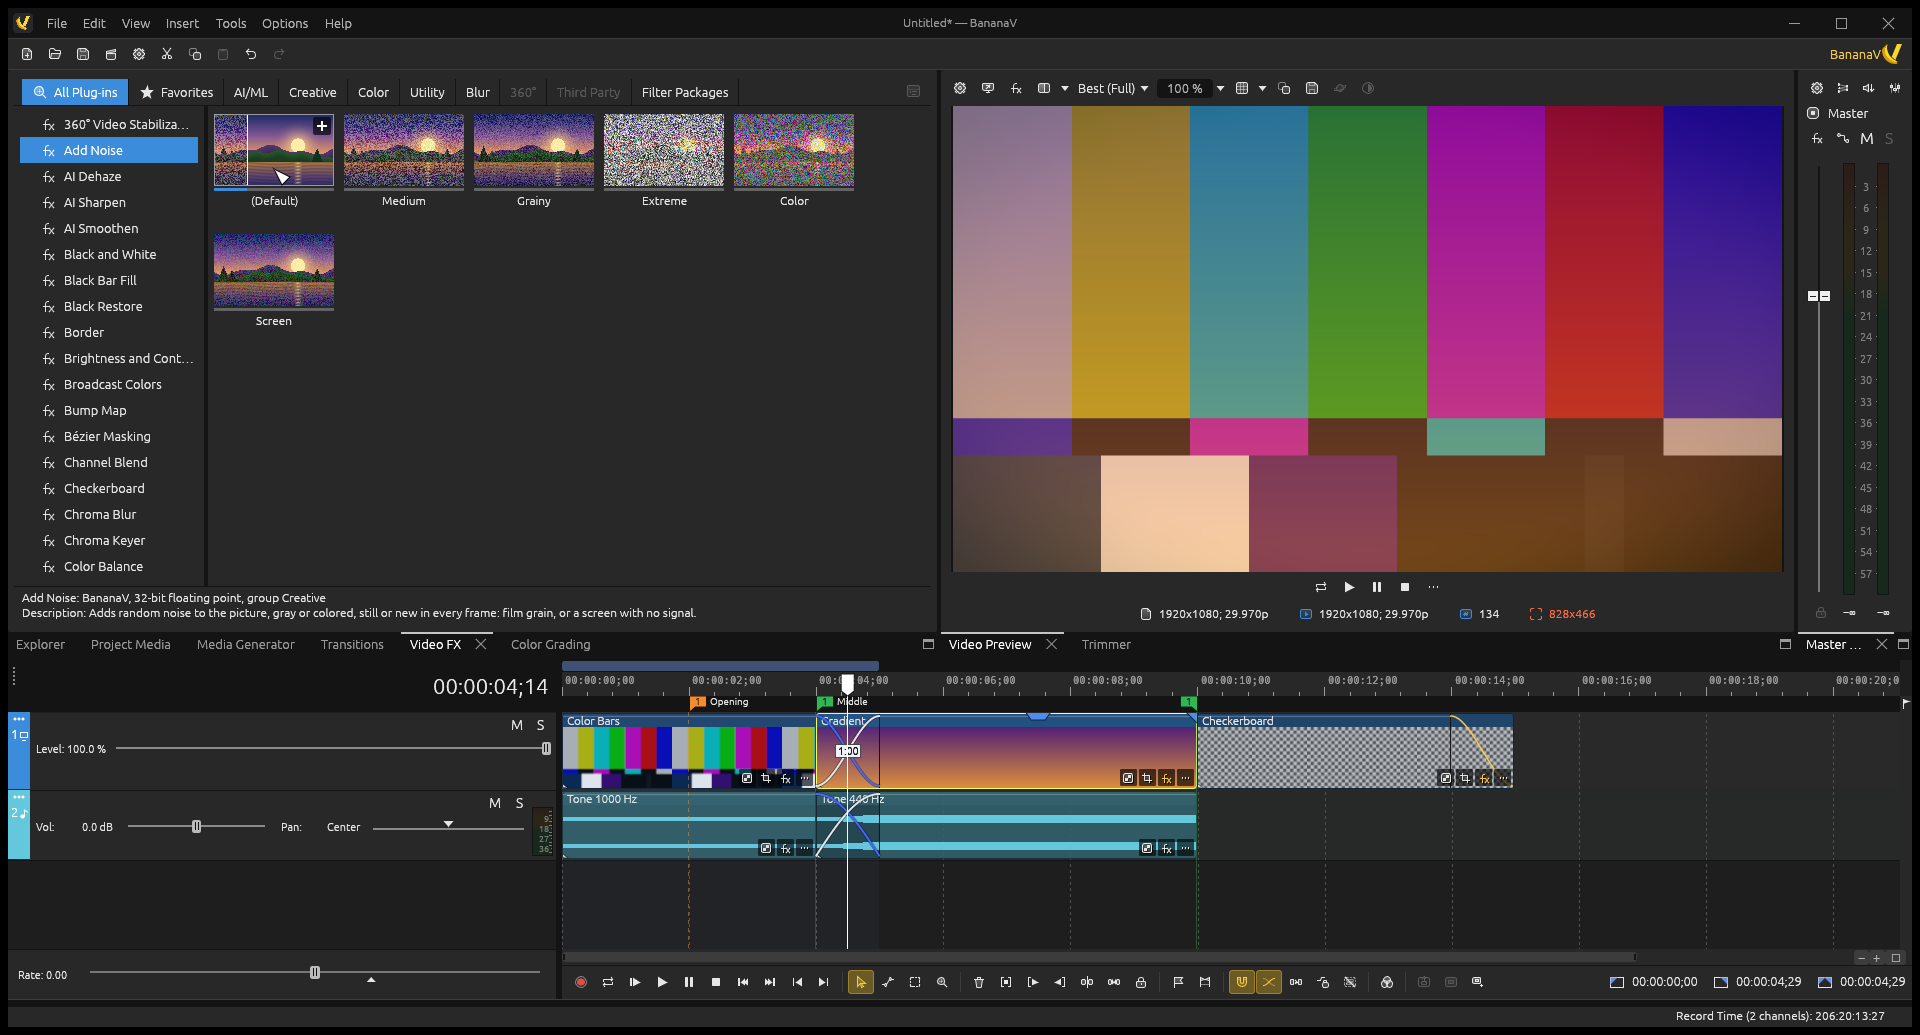
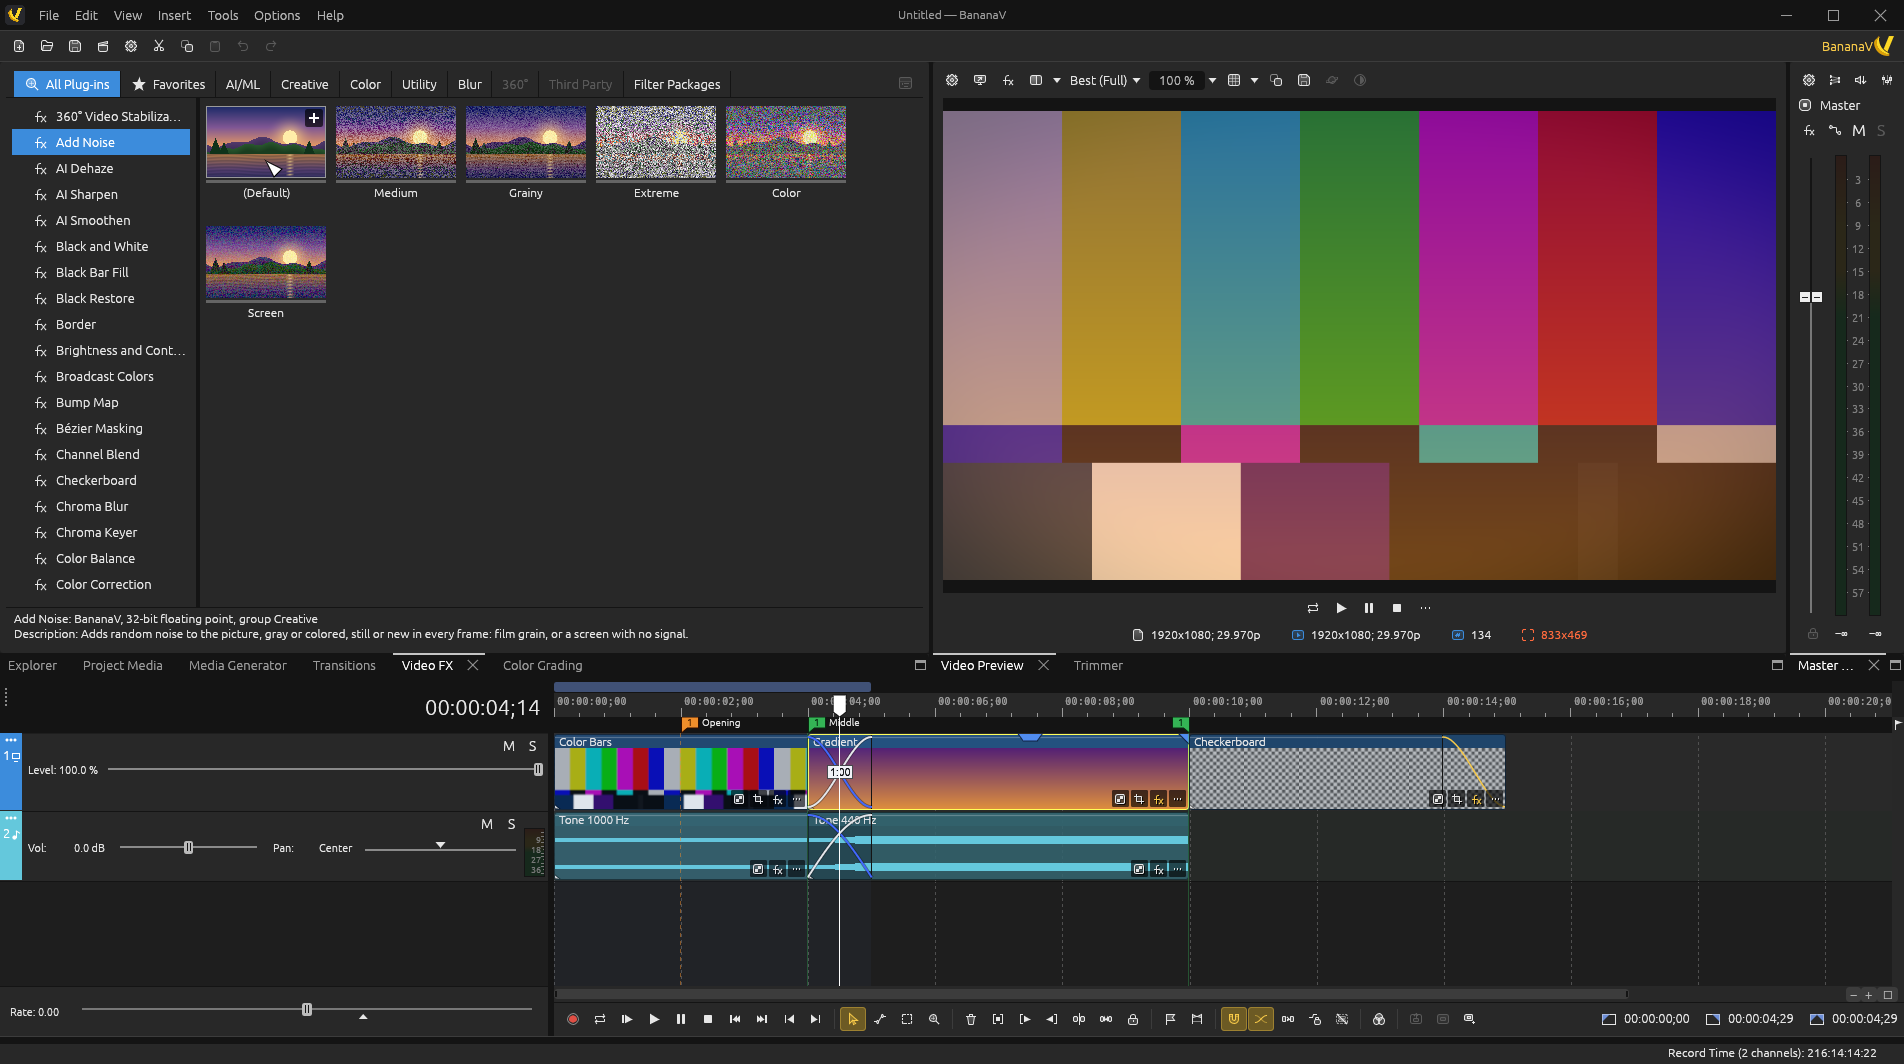
Website: fresh, well-framed screenshots of the whole window

diff --git a/site/index.html b/site/index.html
@@ -94,7 +94,7 @@
         <p class="hero-meta">Windows &amp; Linux · x64 &amp; ARM64 · GPL v3 · No account, no watermark, no subscription</p>
       </div>
       <figure class="showcase">
-        <img src="assets/img/screen-main.png" alt="BananaV's main window: the effects chooser with Add Noise's presets, the Video Preview, the Master Bus and the timeline" width="1920" height="1035">
+        <img src="assets/img/screen-main.png" alt="BananaV's main window: the effects chooser with Add Noise's presets, the Video Preview, the Master Bus and the timeline" width="1904" height="1064">
       </figure>
     </section>
 
@@ -216,31 +216,26 @@
           <button type="button" role="tab" id="tab-generators" aria-controls="shot-generators" aria-selected="false" tabindex="-1">Generators</button>
           <button type="button" role="tab" id="tab-color" aria-controls="shot-color" aria-selected="false" tabindex="-1">Color</button>
           <button type="button" role="tab" id="tab-audio" aria-controls="shot-audio" aria-selected="false" tabindex="-1">Audio</button>
-          <button type="button" role="tab" id="tab-timeline" aria-controls="shot-timeline" aria-selected="false" tabindex="-1">Timeline</button>
         </div>
         <figure class="tour-shot" role="tabpanel" id="shot-effects" aria-labelledby="tab-effects">
-          <img src="assets/img/screen-effects.png" alt="The Video FX chooser with Add Noise's presets beside the Video Preview" width="1904" height="556">
-          <figcaption>Pick an effect and see its presets come alive under the pointer, then drag it onto the timeline.</figcaption>
+          <img src="assets/img/screen-effects.png" alt="An event's effects window with Vignette and Swirl, the swirl's center as a handle on the Video Preview" width="1904" height="1064">
+          <figcaption>Chain effects on any event, track or the output, and drag their handles right on the preview.</figcaption>
         </figure>
         <figure class="tour-shot" role="tabpanel" id="shot-transitions" aria-labelledby="tab-transitions" hidden>
-          <img src="assets/img/screen-transitions.png" alt="The Transitions chooser with GL Transition's presets beside the Video Preview" width="1904" height="556" loading="lazy">
+          <img src="assets/img/screen-transitions.png" alt="The Transitions chooser with GL Transition's presets beside the Video Preview" width="1904" height="1064" loading="lazy">
           <figcaption>Wipes, 3D moves, page peels and the GL Transitions collection, or write your own transition in GLSL.</figcaption>
         </figure>
         <figure class="tour-shot" role="tabpanel" id="shot-generators" aria-labelledby="tab-generators" hidden>
-          <img src="assets/img/screen-generators.png" alt="The Media Generator chooser with Noise Texture's presets beside the Video Preview" width="1904" height="556" loading="lazy">
+          <img src="assets/img/screen-generators.png" alt="The Media Generator chooser with Noise Texture's presets beside the Video Preview" width="1904" height="1064" loading="lazy">
           <figcaption>Titles, credit rolls, test patterns and textures made right on the timeline.</figcaption>
         </figure>
         <figure class="tour-shot" role="tabpanel" id="shot-color" aria-labelledby="tab-color" hidden>
-          <img src="assets/img/screen-color.png" alt="The Color Grading panel with its color wheels and curves, beside the Video Scopes" width="1600" height="471" loading="lazy">
+          <img src="assets/img/screen-color.png" alt="The Color Grading panel with its color wheels under the timeline and the Video Preview, beside the Video Scopes" width="1904" height="1064" loading="lazy">
           <figcaption>Lift, gamma, gain and offset wheels, curves, HSL and LUTs, with the scopes beside your picture.</figcaption>
         </figure>
         <figure class="tour-shot" role="tabpanel" id="shot-audio" aria-labelledby="tab-audio" hidden>
-          <img src="assets/img/screen-mixer.png" alt="The Mixing Console with a strip for each track and bus" width="1600" height="662" loading="lazy">
-          <figcaption>A strip for every track, bus and effects chain, with sends, meters, inserts and automation.</figcaption>
-        </figure>
-        <figure class="tour-shot" role="tabpanel" id="shot-timeline" aria-labelledby="tab-timeline" hidden>
-          <img src="assets/img/screen-timeline.png" alt="The timeline with audio bus tracks and their volume and pan envelopes" width="1600" height="404" loading="lazy">
-          <figcaption>Bus tracks, effect envelopes and keyframes live right where you edit.</figcaption>
+          <img src="assets/img/screen-mixer.png" alt="The Mixing Console with a strip for each track and bus, and the busses' automation envelopes on the timeline" width="1904" height="1064" loading="lazy">
+          <figcaption>A strip for every track, bus and effects chain, and automation envelopes right on the timeline.</figcaption>
         </figure>
       </div>
     </section>

diff --git a/site/assets/i18n.js b/site/assets/i18n.js
@@ -5,6 +5,11 @@
 window.BANANAV_I18N = {
   "pt-BR": {
     // The redesign: what's new, the numbers, the tour, support.
+    "An event's effects window with Vignette and Swirl, the swirl's center as a handle on the Video Preview": "A janela de efeitos de um evento com Vinheta e Redemoinho, o centro do redemoinho como alça na pré-visualização",
+    "Chain effects on any event, track or the output, and drag their handles right on the preview.": "Encadeie efeitos em qualquer evento, trilha ou na saída, e arraste as alças direto na pré-visualização.",
+    "The Color Grading panel with its color wheels under the timeline and the Video Preview, beside the Video Scopes": "O painel de Matização de cores com as rodas de cor, embaixo da timeline e da pré-visualização, ao lado dos scopes de vídeo",
+    "The Mixing Console with a strip for each track and bus, and the busses' automation envelopes on the timeline": "O console de mixagem com um canal para cada trilha e barramento, e os envelopes de automação dos barramentos na timeline",
+    "A strip for every track, bus and effects chain, and automation envelopes right on the timeline.": "Um canal para cada trilha, barramento e cadeia de efeitos, e envelopes de automação direto na timeline.",
     "Tour": "Tour",
     "New": "Novo",
     "Ultra Alpha 2 is out, and the source code is public": "A Ultra Alpha 2 saiu, e o código-fonte agora é público",

diff --git a/crates/ui-egui/tests/telas_site.rs b/crates/ui-egui/tests/telas_site.rs
@@ -1,0 +1,106 @@
+//! Off-screen captures of the whole main window for the website, all at
+//! 1920 × 1080 and all of the demo project (nothing of the computer's own
+//! files shows: the Explorer stays behind other windows). Run with:
+//! `cargo test -p bv-ui-egui --test telas_site -- --ignored --nocapture`
+//! The images go to `target/telas/site_*.png`; `site/assets/img/screen-*.png`
+//! are made from them.
+
+use std::path::PathBuf;
+use std::time::Duration;
+
+use bv_ui_egui::{BananaApp, Language, apply_theme, egui, set_language};
+use egui_kittest::Harness;
+use egui_kittest::kittest::Queryable;
+
+fn settle(h: &mut Harness<'_, BananaApp>) {
+    // The preview, thumbnails and waveforms arrive from other threads.
+    for _ in 0..40 {
+        h.step();
+        std::thread::sleep(Duration::from_millis(50));
+    }
+}
+
+fn snap(h: &mut Harness<'_, BananaApp>, name: &str) {
+    settle(h);
+    let dir = PathBuf::from(env!("CARGO_MANIFEST_DIR")).join("../../target/telas");
+    std::fs::create_dir_all(&dir).expect("output folder");
+    let img = h.render().expect("render");
+    img.save(dir.join(format!("site_{name}.png")))
+        .expect("save");
+}
+
+/// The demo project in English, the welcome screen closed, never the
+/// user's filter packages.
+fn demo() -> BananaApp {
+    let mut app = BananaApp::new(egui::Context::default());
+    set_language(Language::English);
+    app.welcome_for_review("closed");
+    app.fx_packages_for_review();
+    app.load_demo();
+    app
+}
+
+fn harness(app: BananaApp) -> Harness<'static, BananaApp> {
+    Harness::builder()
+        .with_size(egui::vec2(1920.0, 1080.0))
+        .with_pixels_per_point(1.0)
+        .wgpu()
+        .build_ui_state(
+            |ui, app: &mut BananaApp| {
+                apply_theme(ui.ctx());
+                app.frame(ui);
+            },
+            app,
+        )
+}
+
+/// The pointer on the widget named `label` (a preset: only it plays).
+fn hover(h: &mut Harness<'_, BananaApp>, label: &str) {
+    let at = h.get_by_label(label).rect().center();
+    h.event(egui::Event::PointerMoved(at));
+    h.step();
+}
+
+/// A chooser's plug-in picked, the pointer on one of its presets.
+fn chooser(h: &mut Harness<'_, BananaApp>, window: &str, plugin: &str, preset: &str) {
+    h.state_mut().show_tab_named(window);
+    settle(h);
+    h.get_by_label(plugin).click();
+    settle(h);
+    hover(h, preset);
+}
+
+#[test]
+#[ignore = "renders images for the website"]
+fn captura_site() {
+    let mut h = harness(demo());
+    chooser(&mut h, "Video FX", "Add Noise", "(Default)");
+    snap(&mut h, "efeitos");
+    chooser(&mut h, "Transitions", "GL Transition", "Cube");
+    snap(&mut h, "transicoes");
+    chooser(&mut h, "Media Generators", "Noise Texture", "Lava");
+    snap(&mut h, "geradores");
+
+    // An event's effects window: Swirl after Vignette, its center's handle
+    // on the preview.
+    let mut app = demo();
+    assert!(app.plugin_effect_for_review("org.bananav.Swirl"));
+    let mut h = harness(app);
+    h.state_mut().show_tab_named("Project Media");
+    snap(&mut h, "efeito_janela");
+
+    let mut app = demo();
+    assert!(app.color_grading_for_review(1));
+    snap(&mut harness(app), "cor");
+
+    let mut app = demo();
+    assert!(app.mixing_console_for_review());
+    snap(&mut harness(app), "audio");
+
+    let mut app = demo();
+    assert!(app.bus_tracks_for_review());
+    let mut h = harness(app);
+    settle(&mut h);
+    assert!(h.state_mut().bus_automation_for_review());
+    snap(&mut h, "timeline");
+}

diff --git a/ATTRIBUTION.md b/ATTRIBUTION.md
@@ -22,7 +22,7 @@ logo as marks are covered by [TRADEMARKS.md](TRADEMARKS.md) (a draft).
 | `docs/brand/social-preview.svg` | @acasoq-web, BananaV's owner (logo); BananaV contributors (layout) | Original work: the logo, the name and a line of text set in Inter (OFL-1.1, not embedded) | GPL-3.0-or-later; the mark: TRADEMARKS.md |
 | `docs/brand/social-preview.png` | @acasoq-web, BananaV's owner (logo); BananaV contributors (layout) | Rendered from `social-preview.svg` (GitHub's social preview, 1280 × 640) | GPL-3.0-or-later; the mark: TRADEMARKS.md |
 | `site/assets/img/bananav-icon.svg`, `bananav-logo-transparent.svg`, `bananav.png`, `social-preview.png` | @acasoq-web, BananaV's owner | Copies of the files in `docs/brand`, for the website | GPL-3.0-or-later; the mark: TRADEMARKS.md |
-| `site/assets/img/screen-main.png`, `screen-effects.png`, `screen-transitions.png`, `screen-generators.png`, `screen-color.png`, `screen-mixer.png`, `screen-timeline.png` | BananaV contributors | Original work: screenshots of BananaV from its headless screen tests (`crates/ui-egui/tests/telas*.rs`), showing only BananaV and media it generates (color bars, gradient, checkerboard, tones) | GPL-3.0-or-later |
+| `site/assets/img/screen-main.png`, `screen-effects.png`, `screen-transitions.png`, `screen-generators.png`, `screen-color.png`, `screen-mixer.png` | BananaV contributors | Original work: screenshots of BananaV from its headless screen tests (`crates/ui-egui/tests/telas*.rs`), showing only BananaV and media it generates (color bars, gradient, checkerboard, tones) | GPL-3.0-or-later |
 | `crates/effects/src/arimo.rs` (glyph outlines) | The Arimo Project Authors | <https://github.com/googlefonts/arimo>: 16 glyphs of Arimo Bold, for the Timecode effect | OFL-1.1 (`crates/effects/fonts/OFL.txt`) |
 | `crates/effects/src/lens_correction/lenses.rs` (lens table) | The lensfun project and its contributors | <https://github.com/lensfun/lensfun>: the distortion coefficients of 636 lenses of its database (version 0.3.95), for Lens Correction | CC-BY-SA-4.0, adapted from CC-BY-SA-3.0 (`crates/effects/licenses/lensfun.md`) |
 | `crates/ocio/configs/bananav-aces-1.3.ocio` | BananaV contributors | Original work, written by `tools/ocio_config.py` from published primaries | GPL-3.0-or-later |

diff --git a/site/README.md b/site/README.md
@@ -14,9 +14,10 @@ last choice, then the browser's language, picks.
 
 - Preview it locally: `python -m http.server 8765 --directory site`, then open
   http://localhost:8765.
-- Screenshots (`assets/img/screen-*.png`) come from the screen tests
-  (`cargo test -p bv-ui-egui --test telas_inicio -- --ignored`, and `--test
-  telas`), cropped; each has its `.attribution` sidecar and a line in
+- Screenshots (`assets/img/screen-*.png`) come from the screen tests made for
+  the site (`cargo test -p bv-ui-egui --test telas_site -- --ignored`: the
+  whole window at 1920 × 1080, `target/telas/site_*.png`), their margin
+  trimmed; each has its `.attribution` sidecar and a line in
   ATTRIBUTION.md. They show only BananaV and media it generates.
 - Donations: the Donate links go to the donate band (`#support`), whose
   buttons are Ko-fi, for donations from any country
